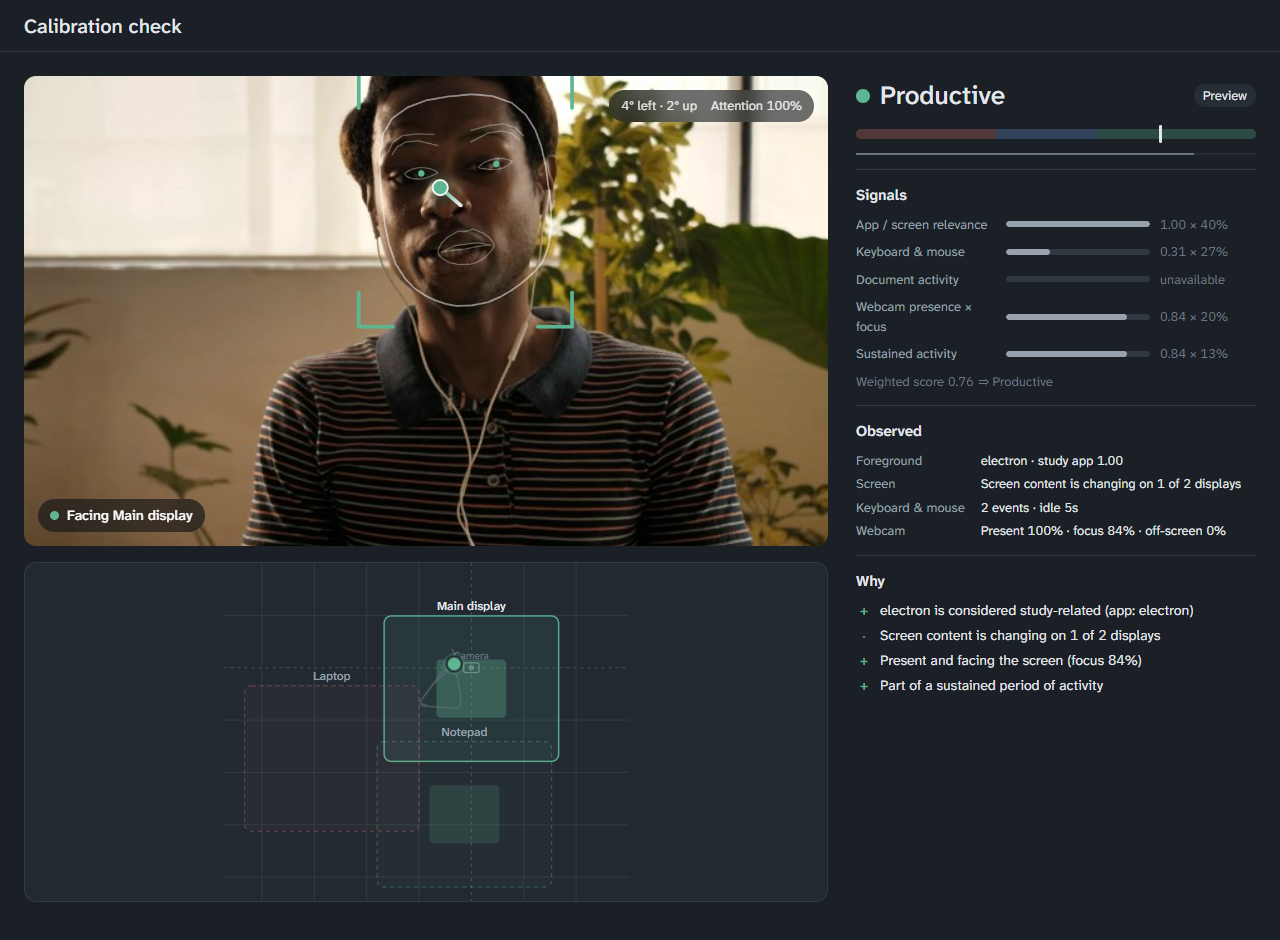
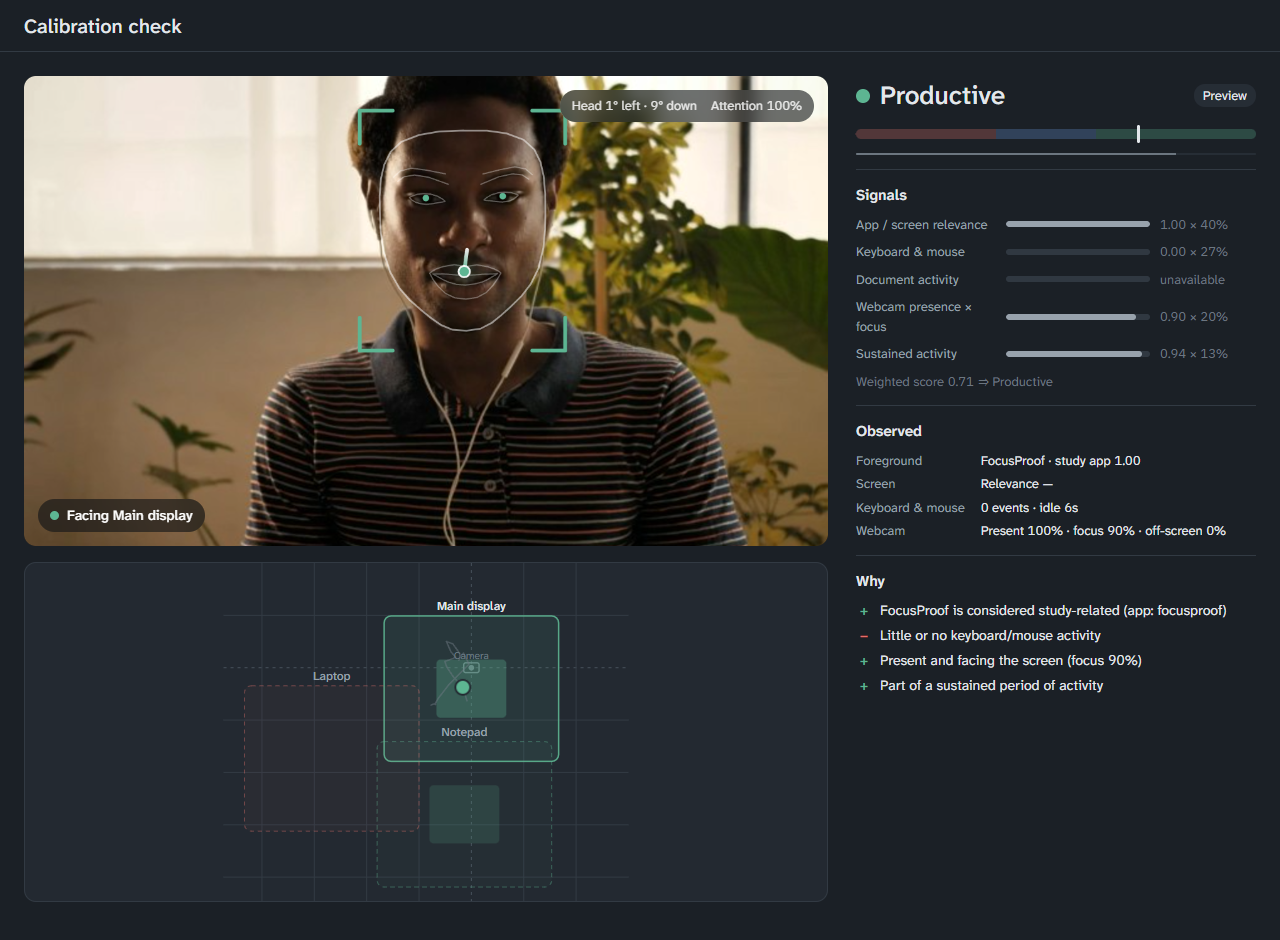
Keep the calibration check overlay in step with the video
The overlay was drawn from a slightly earlier frame than the video on
screen, so the outline drifted off the face when moving. The canvas now
paints each analysed frame together with its own landmarks; the video
element only feeds detection. The head-direction line is shorter and
the readout says "Head" so it isn't read as eye gaze.

diff --git a/src/renderer/check/CameraStage.tsx b/src/renderer/check/CameraStage.tsx
@@ -1,4 +1,4 @@
-import { useEffect, useRef, type RefObject } from 'react';
+import { useEffect, useRef, type MutableRefObject, type RefObject } from 'react';
 import { FaceLandmarker, type NormalizedLandmark } from '@mediapipe/tasks-vision';
 import type { Track } from './faceTracker';
 
@@ -43,11 +43,12 @@ function brackets(ctx: CanvasRenderingContext2D, x0: number, y0: number, x1: num
   ctx.stroke();
 }
 
-function draw(canvas: HTMLCanvasElement, track: Track | null, color: string): void {
+/** Paints the analysed video frame and its overlay together, so the outline never lags the image. */
+function draw(canvas: HTMLCanvasElement, video: HTMLVideoElement, track: Track | null, color: string): void {
   const ctx = canvas.getContext('2d');
   if (!ctx) return;
   const { width: w, height: h } = canvas;
-  ctx.clearRect(0, 0, w, h);
+  ctx.drawImage(video, 0, 0, w, h);
   const pts = track?.landmarks;
   if (!pts) return;
   const unit = w / 640;
@@ -92,12 +93,13 @@ function draw(canvas: HTMLCanvasElement, track: Track | null, color: string): vo
     ctx.fill();
   }
 
-  // Head direction: the face's forward axis, projected onto the image from the nose tip.
+  // Head direction (not eye gaze): the face's forward axis, projected onto the image from the nose
+  // tip. Kept short so a small tilt doesn't read as looking somewhere specific on the face.
   const nose = pts[NOSE_TIP];
   if (nose && track.yawDeg !== null && track.pitchDeg !== null) {
     const yaw = (track.yawDeg * Math.PI) / 180;
     const pitch = (track.pitchDeg * Math.PI) / 180;
-    const len = (x1 - x0) * 1.6;
+    const len = (x1 - x0) * 0.8;
     const sx = nose.x * w;
     const sy = nose.y * h;
     const ex = sx + Math.sin(yaw) * Math.cos(pitch) * len;
@@ -116,7 +118,7 @@ function draw(canvas: HTMLCanvasElement, track: Track | null, color: string): vo
     ctx.shadowBlur = 14 * unit;
     ctx.fillStyle = color;
     ctx.beginPath();
-    ctx.arc(ex, ey, 6 * unit, 0, Math.PI * 2);
+    ctx.arc(ex, ey, 4.5 * unit, 0, Math.PI * 2);
     ctx.fill();
     ctx.restore();
     ctx.strokeStyle = 'rgba(255,255,255,0.9)';
@@ -125,10 +127,14 @@ function draw(canvas: HTMLCanvasElement, track: Track | null, color: string): vo
   }
 }
 
-/** Mirrored webcam view with the face outline and head direction drawn on top. */
+/**
+ * Mirrored webcam view with the face outline and head direction drawn on top. The video element
+ * only feeds detection; the canvas shows each analysed frame with its own landmarks. Call
+ * drawRef.current(track) straight after detection, before the video moves on to a newer frame.
+ */
 export function CameraStage(props: {
   videoRef: RefObject<HTMLVideoElement | null>;
-  trackRef: RefObject<Track | null>;
+  drawRef: MutableRefObject<((track: Track) => void) | null>;
   color: string;
   children?: React.ReactNode;
 }) {
@@ -137,34 +143,28 @@ export function CameraStage(props: {
   useEffect(() => {
     colorRef.current = props.color;
   }, [props.color]);
-  const { videoRef, trackRef } = props;
+  const { videoRef, drawRef } = props;
 
   useEffect(() => {
-    let raf = 0;
-    let drawnTs = -1;
-    const loop = (): void => {
-      raf = requestAnimationFrame(loop);
+    drawRef.current = (track) => {
       const canvas = canvasRef.current;
       const video = videoRef.current;
-      const track = trackRef.current;
       if (!canvas || !video || !video.videoWidth) return;
-      // Twice the video resolution keeps the lines crisp; same aspect, so both crop alike.
+      // Twice the video resolution keeps the lines crisp.
       if (canvas.width !== video.videoWidth * 2) {
         canvas.width = video.videoWidth * 2;
         canvas.height = video.videoHeight * 2;
-        drawnTs = -1;
       }
-      if (track?.ts === drawnTs) return;
-      drawnTs = track?.ts ?? -1;
-      draw(canvas, track, colorRef.current);
+      draw(canvas, video, track, colorRef.current);
     };
-    loop();
-    return () => cancelAnimationFrame(raf);
-  }, [videoRef, trackRef]);
+    return () => {
+      drawRef.current = null;
+    };
+  }, [videoRef, drawRef]);
 
   return (
     <div className="stage">
-      <video ref={videoRef} playsInline muted />
+      <video ref={videoRef} playsInline muted aria-hidden />
       <canvas ref={canvasRef} aria-hidden />
       {props.children}
     </div>

diff --git a/src/renderer/check/CheckApp.tsx b/src/renderer/check/CheckApp.tsx
@@ -56,7 +56,7 @@ export function CheckApp() {
   const colors = useThemeColors();
 
   const videoRef = useRef<HTMLVideoElement>(null);
-  const trackRef = useRef<Track | null>(null);
+  const drawRef = useRef<((track: Track) => void) | null>(null);
   const [error, setError] = useState<string | null>(null);
   const [ready, setReady] = useState(false);
   const [view, setView] = useState<{ face: boolean; pose: Pose | null; trail: Pose[] }>({ face: false, pose: null, trail: [] });
@@ -78,7 +78,7 @@ export function CheckApp() {
             }
           : { yawDeg: track.yawDeg, pitchDeg: track.pitchDeg };
       } else smooth = null;
-      trackRef.current = { ...track, yawDeg: smooth?.yawDeg ?? null, pitchDeg: smooth?.pitchDeg ?? null };
+      drawRef.current?.({ ...track, yawDeg: smooth?.yawDeg ?? null, pitchDeg: smooth?.pitchDeg ?? null });
       if (track.ts - lastView < VIEW_MS) return;
       lastView = track.ts;
       trail = smooth ? [...trail, smooth].slice(-TRAIL) : [];
@@ -118,7 +118,7 @@ export function CheckApp() {
       </header>
       <div className="check-body">
         <div className="check-camera">
-          <CameraStage videoRef={videoRef} trackRef={trackRef} color={color}>
+          <CameraStage videoRef={videoRef} drawRef={drawRef} color={color}>
             {error ? (
               <div className="stage-empty">{error}</div>
             ) : !ready ? (
@@ -131,7 +131,7 @@ export function CheckApp() {
                 </div>
                 {view.pose && (
                   <div className="stage-readout num">
-                    <span>{direction(view.pose)}</span>
+                    <span>Head {direction(view.pose)}</span>
                     <span>Attention {formatPct(attention)}</span>
                   </div>
                 )}

diff --git a/src/renderer/check/check.css b/src/renderer/check/check.css
@@ -6,7 +6,9 @@
 
 /* Video and drawing share one box and are both mirrored, so the view behaves like a mirror. */
 .stage { position: relative; height: min(50vh, 520px); border-radius: 12px; overflow: hidden; background: #0d1114; }
-.stage video, .stage canvas { position: absolute; inset: 0; width: 100%; height: 100%; object-fit: cover; transform: scaleX(-1); }
+.stage canvas { position: absolute; inset: 0; width: 100%; height: 100%; object-fit: cover; transform: scaleX(-1); }
+/* Feeds detection only; the canvas shows each analysed frame. */
+.stage video { position: absolute; width: 1px; height: 1px; opacity: 0; pointer-events: none; }
 .stage-empty { position: absolute; inset: 0; display: grid; place-items: center; color: rgba(255, 255, 255, 0.75); padding: 24px; text-align: center; }
 .stage-chip, .stage-readout {
   position: absolute; display: flex; align-items: center; gap: 8px;
